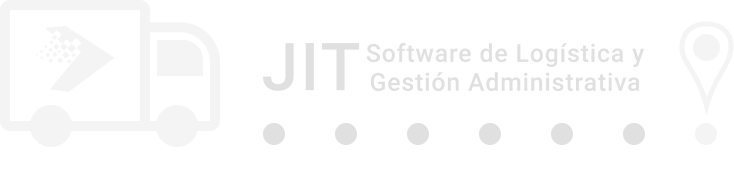
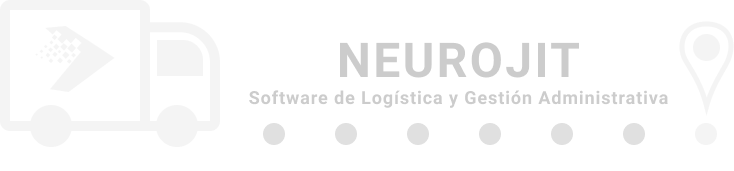
Cambio de nombre de proyecto (solo en vista).

Changed region(s): [[0.3297, 0.2339, 0.9292, 0.6433]]

diff --git a/src/app/componentes/login/login.component.html b/src/app/componentes/login/login.component.html
@@ -6,8 +6,8 @@
         <mat-card>
           <div class="row justify-content-center">
             <img width="40px" height="35px" src="/assets/logo.png" alt="Logo">
-            <h2 style="padding-left: 10px;font-weight: bold;">JIT</h2>
-            <h4 style="padding-top: 8px; padding-left: 5px;">Logistica</h4>
+            <h2 style="padding-left: 10px; font-weight: bold;">NEUROJIT</h2>
+            <h4 style="padding-left: 40px;">Logística</h4>
           </div>
           <br />
           <div class="row">

diff --git a/src/app/app.component.html b/src/app/app.component.html
@@ -1,7 +1,7 @@
 <div class="{{tema}}">
   <mat-toolbar class="alto-primer-toolbar" color="primary" *ngIf="visible">
     <mat-toolbar-row>
-      <span>JIT Logistica</span>
+      <span>NEUROJIT Logística</span>
       <span class="spacer"></span>
       <div class="text-center">
         <span style="float:left;clear:left;font-size:25px;font-weight: bold;">{{empresa.razonSocial}}</span>

diff --git a/src/index.html b/src/index.html
@@ -2,7 +2,7 @@
 <html lang="en">
 <head>
   <meta charset="utf-8">
-  <title>JIT</title>
+  <title>NEUROJIT</title>
   <base href="/">
   <meta name="viewport" content="width=device-width, initial-scale=1">
   <link rel="icon" type="image/x-icon" href="assets/logo.png">
